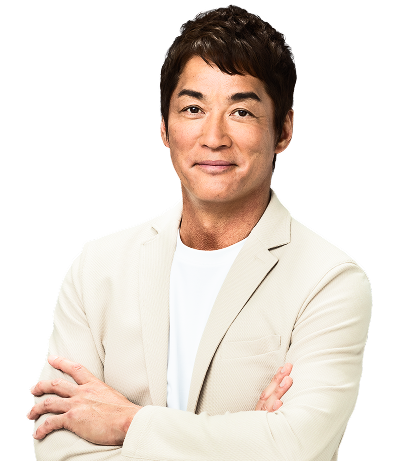
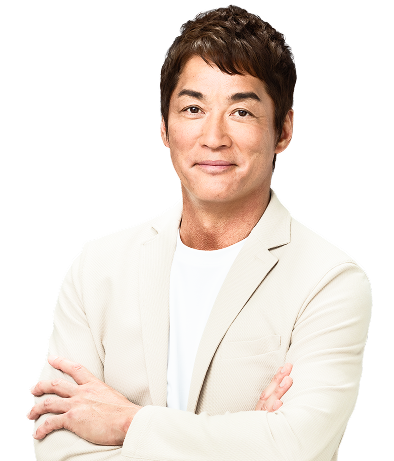
feat: 全体システムを白ベースにリニューアル + ログイン画面を刷新
- globals.css の配色トークンをダーク→白ベース+ブランドブルー(#1A15BB)へ一括リマップ
- ゴールド系グラデ/パルス/カレンダーアイコン/PWA theme-color を白地向けに調整
- ログイン画面を刷新: mainvisual風背景(動画+パープル→シアングラデ)、
  メインコピー、人物(nagashima_login)配置、960pxラッパー、カード中央、
  下部コピーライト、SP最適化(人物背景化・フォームをファーストビュー)
- 画像 nagashima_login.png 追加、nagashima01/02.png 更新

diff --git a/src/app/(auth)/login/page.tsx b/src/app/(auth)/login/page.tsx
@@ -3,8 +3,6 @@
 import { useState, useEffect, Suspense } from "react";
 import { signIn, getSession } from "next-auth/react";
 import { useSearchParams } from "next/navigation";
-import GoldParticles from "@/components/login/GoldParticles";
-import GoldDivider from "@/components/ui/GoldDivider";
 
 export default function LoginPageWrapper() {
   return (
@@ -71,24 +69,96 @@ function LoginPage() {
   };
 
   return (
-    <div className="min-h-screen bg-bg-primary flex items-center justify-center relative overflow-hidden">
-      <GoldParticles />
-      <div className="relative z-10 w-[90%] max-w-[420px] animate-fade-in">
-        {/* ロゴ */}
-        <div className="text-center mb-10">
-          <div className="text-[12px] tracking-[5px] text-gold-dark mb-4 font-light">
-            Special Member&apos;s
-          </div>
+    <div className="min-h-screen relative overflow-hidden bg-[#0c47a0]">
+      {/* 背景: ブランドのパープル→シアン グラデーション + 動画(うっすらDNA) */}
+      <div
+        className="absolute inset-0 z-0"
+        aria-hidden="true"
+        style={{
+          background:
+            "linear-gradient(125deg, #5800FF 0%, #2f44d4 45%, #2f8fd8 72%, #5CE1E6 100%)",
+        }}
+      />
+      <video
+        className="absolute inset-0 w-full h-full object-cover z-0 opacity-30 mix-blend-screen"
+        src="/header-bg.mp4"
+        autoPlay
+        muted
+        loop
+        playsInline
+        aria-hidden="true"
+      />
+
+      {/* コンテンツ: 最大1120pxのラッパー(コピー+カード=左 / 人物=ラッパー右端) */}
+      <div className="relative z-20 px-6">
+        <div className="relative w-full max-w-[1120px] mx-auto min-h-screen">
+          {/* 人物(lg以上・ラッパー右端に配置)
+              ▼サイズ調整: 高さ h-[86vh] / 横幅上限 max-w-[48%] を変更 */}
           {/* eslint-disable-next-line @next/next/no-img-element */}
           <img
-            src="/logo.png"
-            alt="BioVault"
-            className="h-14 w-auto mx-auto"
+            src="/nagashima_login.png"
+            alt=""
+            aria-hidden="true"
+            className="hidden lg:block absolute bottom-0 right-0 h-[86vh] w-auto max-w-[48%] object-contain object-bottom z-10 pointer-events-none select-none"
           />
-          <GoldDivider width={150} className="mx-auto mt-6" />
-        </div>
+          {/* 人物(SP: 右上に配置・背景レイヤー / フォームは前面・ファーストビュー内)
+              ▼サイズ調整: 高さ h-[46vh] / 位置 top-[14%] right-[-6%] を変更 */}
+          {/* eslint-disable-next-line @next/next/no-img-element */}
+          <img
+            src="/nagashima_login.png"
+            alt=""
+            aria-hidden="true"
+            className="lg:hidden absolute top-[5%] right-[-6%] h-[46vh] w-auto object-contain object-top z-0 opacity-95 pointer-events-none select-none"
+          />
+          {/* ロゴ(上 / SPは小さめ) */}
+          <div
+            className="absolute top-6 lg:top-8 left-0 z-20"
+            style={{ fontFamily: "var(--font-serif)" }}
+          >
+            <div
+              className="text-white font-medium leading-none text-[22px] lg:text-[34px]"
+              style={{ letterSpacing: "0.04em" }}
+            >
+              BioVault
+            </div>
+            <div
+              className="text-white mt-1 lg:mt-1.5 text-[10px] lg:text-[14px]"
+              style={{ letterSpacing: "0.18em" }}
+            >
+              Membership Service
+            </div>
+          </div>
 
-        {/* フォーム */}
+          {/* メインコピー + カード(SPはロゴ下から / PCは上下中央) */}
+          <div className="relative z-20 min-h-screen flex items-start lg:items-center justify-center lg:justify-start pt-[76px] lg:pt-0 pb-12 lg:pb-0">
+            <div className="w-full max-w-[500px] animate-fade-in">
+              {/* メインコピー(SPは幅を制限して折返し&人物と干渉回避 / 影で可読性確保) */}
+              <div
+                className="mb-6 lg:mb-10 text-left max-w-[290px] sm:max-w-[440px] lg:max-w-none"
+                style={{ textShadow: "0 2px 14px rgba(0,0,0,0.45)" }}
+              >
+                <h1
+                  className="text-white font-medium leading-[1.35] whitespace-nowrap text-[24px] lg:text-[48px]"
+                  style={{
+                    fontFamily: "var(--font-serif-jp)",
+                    letterSpacing: "0.03em",
+                  }}
+                >
+                  あなた自身の細胞を
+                  <br />
+                  資産化する時代。
+                </h1>
+                <p className="text-white/90 mt-4 leading-[1.9] text-[14px] lg:text-[16px]">
+                  自分由来のiPS細胞を作製し
+                  <br className="lg:hidden" />
+                  「細胞資産」として保有する、
+                  <br />
+                  次世代ウェルネスサービス。
+                </p>
+              </div>
+              {/* カード */}
+              <div className="w-full max-w-[440px] mx-auto lg:mx-0">
+                {/* フォーム */}
         <form
           onSubmit={handleSubmit}
           className="bg-bg-secondary border border-border-gold rounded px-6 py-8 sm:px-5 sm:py-10"
@@ -164,6 +234,15 @@ function LoginPage() {
             担当者までご連絡ください
           </p>
         </form>
+              </div>
+            </div>
+          </div>
+        </div>
+      </div>
+
+      {/* コピーライト(ページ下部・中央) */}
+      <div className="absolute bottom-5 inset-x-0 z-20 text-center text-[11px] tracking-wider text-white/70 pointer-events-none">
+        &copy; 2025 SCPP Inc. All Rights Reserved.
       </div>
     </div>
   );

diff --git a/src/app/globals.css b/src/app/globals.css
@@ -1,31 +1,38 @@
 @import "tailwindcss";
 
+/*
+ * 配色トークン(白ベースリニューアル / 第一歩)
+ *  - フォーム(v2)のテイストに合わせ、ダーク→白ベース+ブランドブルーへ一括リマップ。
+ *  - 旧「gold」系トークン名はそのまま流用し、値だけブルー(#1A15BB系)に差し替え。
+ *  - 各ページに残るハードコード色(text-white / bg-black 等)は本トークン変更では
+ *    切り替わらないため、別途の個別対応で順次解消する。
+ */
 :root {
-  /* Base — カード背景を少し明るくしてコントラスト向上 */
-  --color-bg-primary: #070709;
-  --color-bg-secondary: #111116;
-  --color-bg-tertiary: #1A1A22;
-  --color-bg-elevated: #222230;
+  /* Base — 白ベース(ページ=淡グレー / カード=白) */
+  --color-bg-primary: #F5F6F8;
+  --color-bg-secondary: #FFFFFF;
+  --color-bg-tertiary: #EEF0F5;
+  --color-bg-elevated: #FFFFFF;
 
-  /* Gold Accent — ロゴのリッチゴールドに準拠 */
-  --color-gold-primary: #BFA04B;
-  --color-gold-light: #D4BC6A;
-  --color-gold-dark: #8C6E2A;
+  /* Accent — フォームのブランドブルー(旧ゴールド枠を踏襲) */
+  --color-gold-primary: #1A15BB;
+  --color-gold-light: #4A44D6;
+  --color-gold-dark: #130F8C;
 
-  /* Text — 高コントラスト（シニア対応・視認性向上） */
-  --color-text-primary: #FFFFFF;
-  --color-text-secondary: #DDDDE6;
-  --color-text-muted: #B0B0C0;
+  /* Text — 濃色(白地で高コントラスト) */
+  --color-text-primary: #1A1A1A;
+  --color-text-secondary: #4A4A4A;
+  --color-text-muted: #888888;
 
-  /* Border — やや明るくして視認性向上 */
-  --color-border: #2A2A38;
-  --color-border-gold: rgba(191, 160, 75, 0.3);
+  /* Border — 淡いグレー */
+  --color-border: #E5E5EA;
+  --color-border-gold: rgba(26, 21, 187, 0.25);
 
-  /* Status */
-  --color-status-active: #34D399;
-  --color-status-warning: #FBBF24;
-  --color-status-danger: #F87171;
-  --color-status-info: #60A5FA;
+  /* Status — 白地で読みやすい彩度に調整 */
+  --color-status-active: #2E9E6B;
+  --color-status-warning: #D97706;
+  --color-status-danger: #E53E3E;
+  --color-status-info: #2563EB;
 }
 
 @theme inline {
@@ -108,13 +115,13 @@ body {
   line-height: 1.2 !important;
 }
 
-/* ゴールドパルスアニメーション */
+/* アクセントパルスアニメーション(ブルー) */
 @keyframes pulse-gold {
   0%, 100% {
-    box-shadow: 0 0 20px rgba(191, 160, 75, 0.3);
+    box-shadow: 0 0 20px rgba(88, 0, 255, 0.25);
   }
   50% {
-    box-shadow: 0 0 30px rgba(191, 160, 75, 0.5), 0 0 60px rgba(191, 160, 75, 0.15);
+    box-shadow: 0 0 30px rgba(88, 0, 255, 0.4), 0 0 60px rgba(88, 0, 255, 0.12);
   }
 }
 
@@ -150,21 +157,22 @@ body {
   animation: glow 3s ease-in-out infinite;
 }
 
-/* ゴールドグラデーションテキスト — ロゴ準拠 */
+/* アクセントグラデーションテキスト(ブランドブルー)
+ *  - 白地で読めるよう、明るすぎるシアンは使わずブルー〜パープルで構成 */
 .text-gold-gradient {
-  background: linear-gradient(135deg, #8C6E2A 0%, #BFA04B 30%, #D4BC6A 50%, #BFA04B 70%, #8C6E2A 100%);
+  background: linear-gradient(135deg, #1A15BB 0%, #5800FF 100%);
   -webkit-background-clip: text;
   -webkit-text-fill-color: transparent;
   background-clip: text;
 }
 
-/* ゴールドグラデーションボタン — ロゴ準拠 */
+/* アクセントグラデーションボタン(パープル→シアン / フォームのCTAに準拠) */
 .bg-gold-gradient {
-  background: linear-gradient(135deg, #8C6E2A, #BFA04B);
+  background: linear-gradient(90deg, #5800FF, #5CE1E6);
 }
 
 .bg-gold-gradient:hover {
-  background: linear-gradient(135deg, #BFA04B, #D4BC6A);
+  background: linear-gradient(90deg, #4a00d6, #49c9ce);
 }
 
 /* date/select inputのスマホ対応 */
@@ -180,10 +188,9 @@ select {
 }
 
 
-/* date inputのカレンダーアイコンを白色に */
+/* date inputのカレンダーアイコン(白地ではダークのまま表示) */
 input[type="date"]::-webkit-calendar-picker-indicator,
 input[type="datetime-local"]::-webkit-calendar-picker-indicator {
-  filter: invert(1);
   cursor: pointer;
 }
 

diff --git a/src/app/layout.tsx b/src/app/layout.tsx
@@ -67,9 +67,9 @@ export default function RootLayout({
     >
       <head>
         <link rel="manifest" href="/manifest.json" />
-        <meta name="theme-color" content="#070709" />
+        <meta name="theme-color" content="#FFFFFF" />
         <meta name="apple-mobile-web-app-capable" content="yes" />
-        <meta name="apple-mobile-web-app-status-bar-style" content="black-translucent" />
+        <meta name="apple-mobile-web-app-status-bar-style" content="default" />
         <meta name="apple-mobile-web-app-title" content="BioVault" />
         <link rel="apple-touch-icon" href="/logo_home.png" />
       </head>